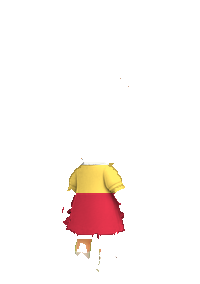
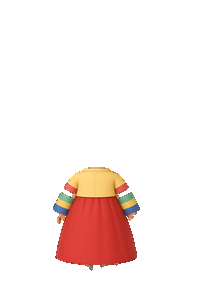
Batch 4: regenerated real hanbok (girl jeogori+chima, boy jeogori+baji), re-add o_hanbok to config/UI/server

Changed region(s): [[0.27, 0.5634, 0.72, 0.9577]]

diff --git a/js/avatar.js b/js/avatar.js
@@ -191,7 +191,7 @@ export function frame(ch, key) { if (!ch.av) return null; if (key && key.startsW
 
 // ---------------- v17 LAYERED test set (2D): one still 200x284 PNG per direction per layer (base · outfit+tint mask · hair), foot pivot (100,272).
 // Only the shipped hairs/outfits are offered; any other code maps to the nearest shipped item (old codes keep working).
-const NEW_O = []; // v18: all 6 gacha outfits pulled 2026-10-30 (fake hanbok, leg/hem skin specks) until regenerated + re-checked
+const NEW_O = ['hanbok']; // v19: hanbok regenerated (real jeogori+chima / jeogori+baji), 5-dir per-cell + 3x checks passed 2026-10-31; other 5 still pulled
 export const SHIP = { f: { hairs: [0, 4, 5, 6], outfits: ['basic', 'choir', 'mint', 'sky', 'lav', 'peach', ...NEW_O] }, m: { hairs: [0, 1, 2, 3, 4, 5, 6], outfits: ['basic', 'mint', 'sky', 'lav', 'peach', 'navy', 'choir', ...NEW_O] } };
 const NEAR_H = { f: [0, 6, 4, 4, 4, 5, 6, 4], m: [0, 1, 2, 3, 4, 5, 6] }; // index in HAIRS[g] → shipped index
 export const LAYER_PIVOT = [100, 272];

diff --git a/MORNING_REPORT.md b/MORNING_REPORT.md
@@ -120,3 +120,11 @@ Tests: beta_suite 160/160 local; test_walk_scale PASS; test_presence 6/6 PASS on
 - Wings c24: 2x resample, cool outline and edge shading, w 1.35. They now read clearly on grass (eye-checked /workspace/mk/prod/wm1.jpg, S/SW/W/NW/N x boy and girl).
 - Monocle c19: bigger (w .38), translucent lens, raised, with a per-direction SW offset. It sits on the eye at S and SW for the boy and both girl hairs (wm3c.jpg) and passes on W.
 - Beta suite 160/160.
+
+## 10-31 batch 4 (KST) — real hanbok re-added (o_hanbok only)
+- Regenerated from scratch (not a recolour): girl = yellow jeogori with saekdong sleeves and red otgoreum + red chima; boy = sky-blue jeogori with saekdong sleeves and navy otgoreum + dark-indigo baji with red daenim ankle ties. 5 directions × 2 genders, fitted onto the existing bases.
+- Rejected along the way (not shipped): girl SW came out as a front view (regenerated); boy v1 cream baji was segmented out as background → bare legs; boy SW/W walking pose didn't match the base stride (regenerated to match); base-skin specks at the ankles and a hole in the white sleeve stripe at boy W (fixed and re-checked).
+- Checks: every cell at 3x by eye ×3 (layer composite, legs/hem close-up, in-game AV.still render) — no skin specks at legs/hems, no holes. New icon cos/o_hanbok.png made from the new outfit.
+- Re-added in all three places, consistently: config gacha.pool (o_hanbok 희귀 w8 → 13 items/244), NEW_O=['hanbok'], server gacha_pool active (migration 20261031_09; server active = 13/244, matches config).
+- Still pulled: o_formal, o_winter, o_summer, o_spring, o_autumn (not regenerated yet). Boy-shorts piping, choir seam and girl hairs h00/h01/h02/h11 are not done yet.
+- Beta suite 160/160.
